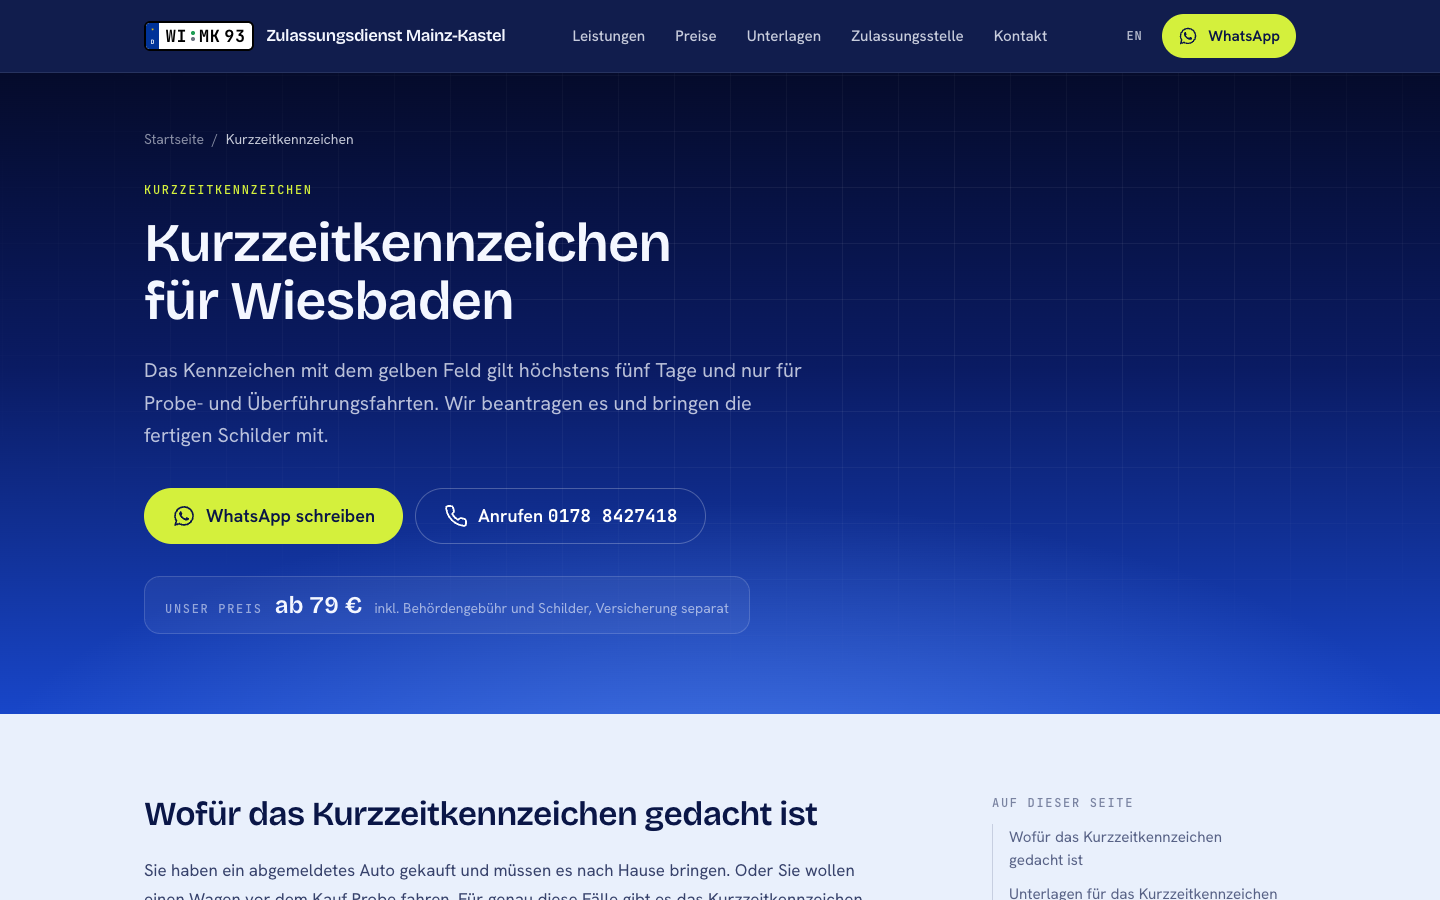
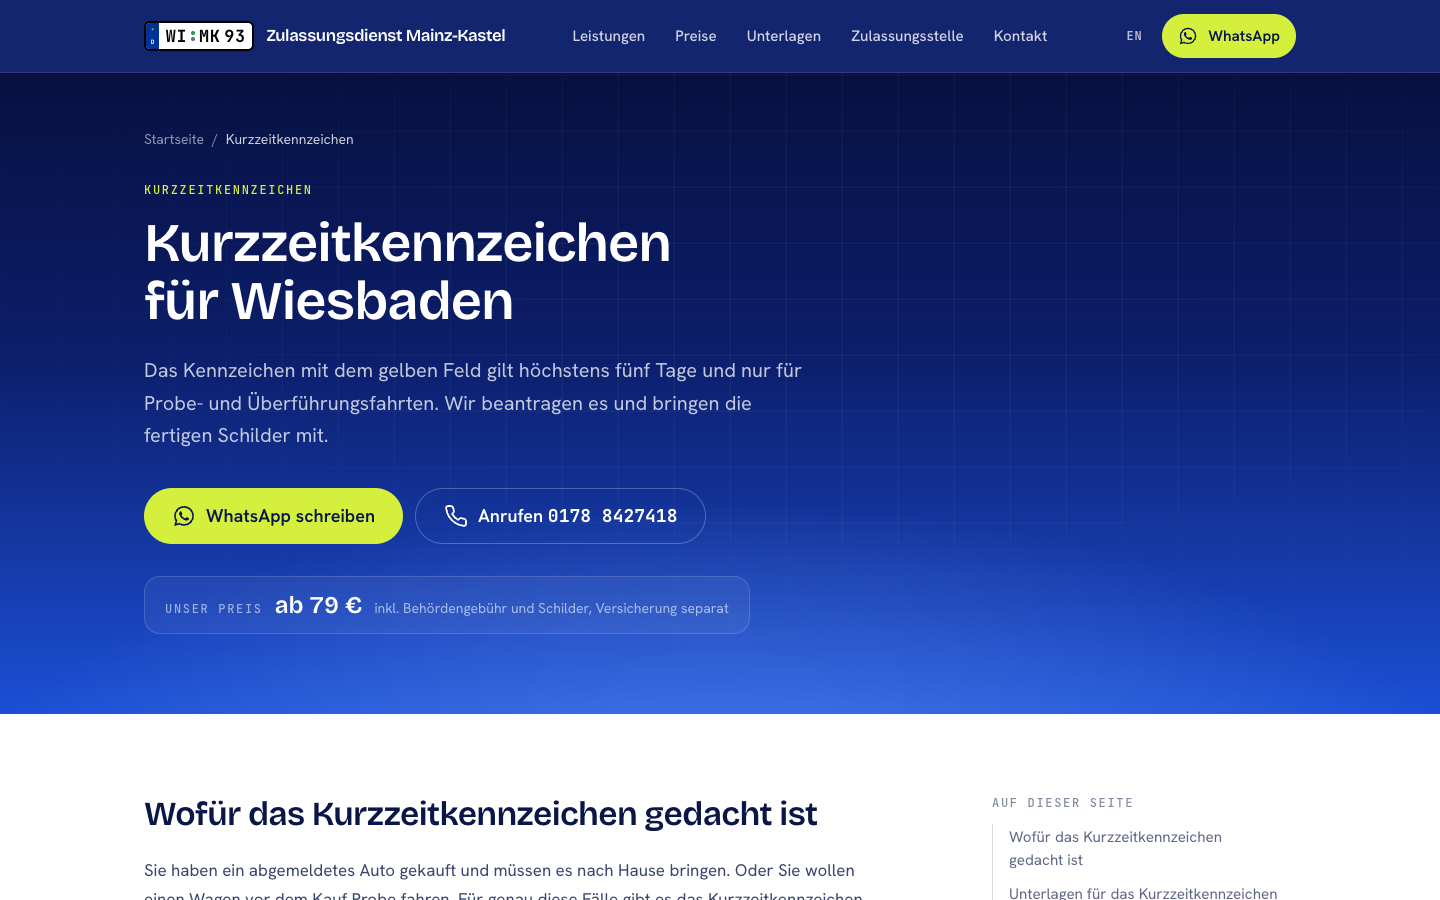
Switch light bands to white and use a clearer royal blue
Palette 'Blau, Weiß & Limette': royal blue #0C1E6B for dark bands, cards,
header and footer, white for the light bands, and lime #D4F03C for the
main buttons and highlights. The hero runs from deep blue at the top to a
brighter blue at the bottom.

Changed region(s): [[0.0, 0.0, 1.0, 0.0933]]

diff --git a/src/app/globals.css b/src/app/globals.css
@@ -3,9 +3,9 @@
   themes: false;
 }
 
-/* Palette "Tiefblau & Limette": two main colours and one accent.
-     dark   #0A1647  deep blue, brightening to royal blue in the hero
-     light  #E9F0FC  a pale tone of the same blue
+/* Palette "Blau, Weiß & Limette": two main colours and one accent.
+     blue   #0C1E6B  royal blue for dark bands, cards, header; deeper at the top of the hero
+     white  #FFFFFF  light bands
      accent #D4F03C  lime yellow
    The page alternates light and dark bands. Light is the default theme ("zmk").
    Any element with data-theme="zmk-dark" switches itself and everything inside it to the
@@ -18,9 +18,9 @@
   prefersdark: false;
   color-scheme: light;
 
-  --color-base-100: #e9f0fc; /* light band */
-  --color-base-200: #dbe6f8; /* panels on a light band */
-  --color-base-300: #c8d8f1;
+  --color-base-100: #ffffff; /* light band */
+  --color-base-200: #f0f4fc; /* panels on a light band */
+  --color-base-300: #dde6f7;
   --color-base-content: #0a1647;
   --color-primary: #1740c4; /* links, labels, small marks */
   --color-primary-content: #f4f7ff;
@@ -28,8 +28,8 @@
   --color-secondary-content: #0a1647;
   --color-accent: #1740c4; /* fill of the main action */
   --color-accent-content: #f4f7ff;
-  --color-neutral: #0a1647;
-  --color-neutral-content: #f4f7ff;
+  --color-neutral: #0c1e6b;
+  --color-neutral-content: #ffffff;
   --color-info: #1740c4;
   --color-info-content: #f4f7ff;
   --color-success: #1740c4;
@@ -58,18 +58,18 @@
   prefersdark: false;
   color-scheme: dark;
 
-  --color-base-100: #0a1647; /* dark band */
-  --color-base-200: #13235e; /* cards and panels on a dark band */
-  --color-base-300: #1d327a;
-  --color-base-content: #f4f7ff;
+  --color-base-100: #0c1e6b; /* blue band */
+  --color-base-200: #162f8f; /* cards and panels on a blue band */
+  --color-base-300: #2243b3;
+  --color-base-content: #ffffff;
   --color-primary: #d4f03c;
   --color-primary-content: #0a1647;
   --color-secondary: #d4f03c;
   --color-secondary-content: #0a1647;
   --color-accent: #d4f03c;
   --color-accent-content: #0a1647;
-  --color-neutral: #060d2e; /* footer and the top of the hero: the deepest blue */
-  --color-neutral-content: #f4f7ff;
+  --color-neutral: #081248; /* footer and the top of the hero: the deepest blue */
+  --color-neutral-content: #ffffff;
   --color-info: #d4f03c;
   --color-info-content: #0a1647;
   --color-success: #d4f03c;
@@ -206,7 +206,7 @@ summary {
 .hero-ground {
   background:
     radial-gradient(70rem 30rem at 50% 118%, rgb(120 170 255 / 0.5), transparent 68%),
-    linear-gradient(180deg, #050b2b 0%, #0a1b63 46%, #1846c9 100%);
+    linear-gradient(180deg, #071040 0%, #0c1e6b 44%, #1c4fd6 100%);
 }
 
 .hero-grid {

diff --git a/src/lib/site.ts b/src/lib/site.ts
@@ -17,10 +17,10 @@ export const site = {
   name: "Zulassungsdienst Mainz-Kastel",
   shortName: "Zulassungsdienst Kastel",
   /**
-   * Brand colours, palette "Tiefblau & Limette": deep-blue and pale-blue bands in turn, lime accent.
+   * Brand colours, palette "Blau, Weiß & Limette": blue and white bands in turn, lime accent.
    * The theme in src/app/globals.css sets the same three values; change both together.
    */
-  colors: { dark: "#0A1647", light: "#E9F0FC", accent: "#D4F03C" },
+  colors: { dark: "#0C1E6B", light: "#FFFFFF", accent: "#D4F03C" },
 
   /** Letters shown on the licence-plate logo. */
   plate: { district: "WI", letters: "MK", digits: "93" },

diff --git a/src/app/(en)/en/[[...slug]]/page.tsx b/src/app/(en)/en/[[...slug]]/page.tsx
@@ -3,7 +3,7 @@ import { pageMetadata, RenderPage, staticParams } from "../../../render";
 
 export const dynamicParams = false;
 
-export const viewport: Viewport = { themeColor: "#0a1647", colorScheme: "light" };
+export const viewport: Viewport = { themeColor: "#0c1e6b", colorScheme: "light" };
 
 export function generateStaticParams() {
   return staticParams("en");

diff --git a/src/app/(de)/[[...slug]]/page.tsx b/src/app/(de)/[[...slug]]/page.tsx
@@ -3,7 +3,7 @@ import { pageMetadata, RenderPage, staticParams } from "../../render";
 
 export const dynamicParams = false;
 
-export const viewport: Viewport = { themeColor: "#0a1647", colorScheme: "light" };
+export const viewport: Viewport = { themeColor: "#0c1e6b", colorScheme: "light" };
 
 export function generateStaticParams() {
   return staticParams("de");

diff --git a/README.md b/README.md
@@ -16,7 +16,7 @@ Built with Next.js (App Router), Tailwind CSS 4 and daisyUI 5. Every page is gen
 | Guides (registration office, Kastel/Kostheim, costs, documents) | `src/content/pages/guides.ts` |
 | Prices page, contact page | `src/content/pages/core.ts` |
 | Impressum and Datenschutz | `src/content/pages/legal.ts` |
-| Colours (palette "Tiefblau & Limette": dark `#0A1647`, light `#E9F0FC`, accent `#D4F03C`; dark bands are marked with `data-theme="zmk-dark"`) | `src/app/globals.css` and `colors` in `src/lib/site.ts`, both together |
+| Colours (palette "Blau, Weiß & Limette": blue `#0C1E6B`, white `#FFFFFF`, accent `#D4F03C`; dark bands are marked with `data-theme="zmk-dark"`) | `src/app/globals.css` and `colors` in `src/lib/site.ts`, both together |
 | Fonts | `src/app/render.tsx` |
 
 Values marked `TODO owner` in `src/lib/site.ts` are still missing. Missing Impressum details show up
